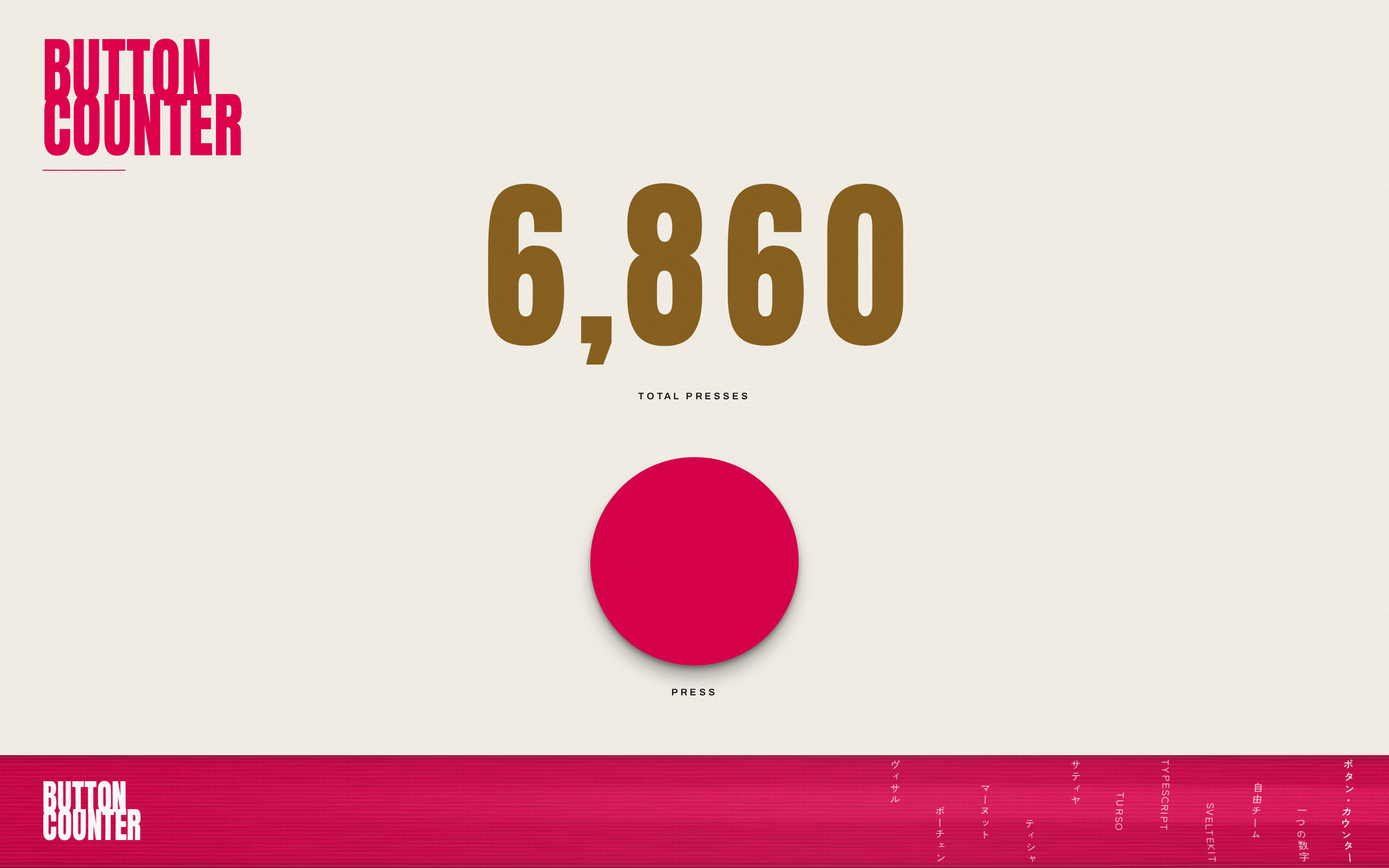
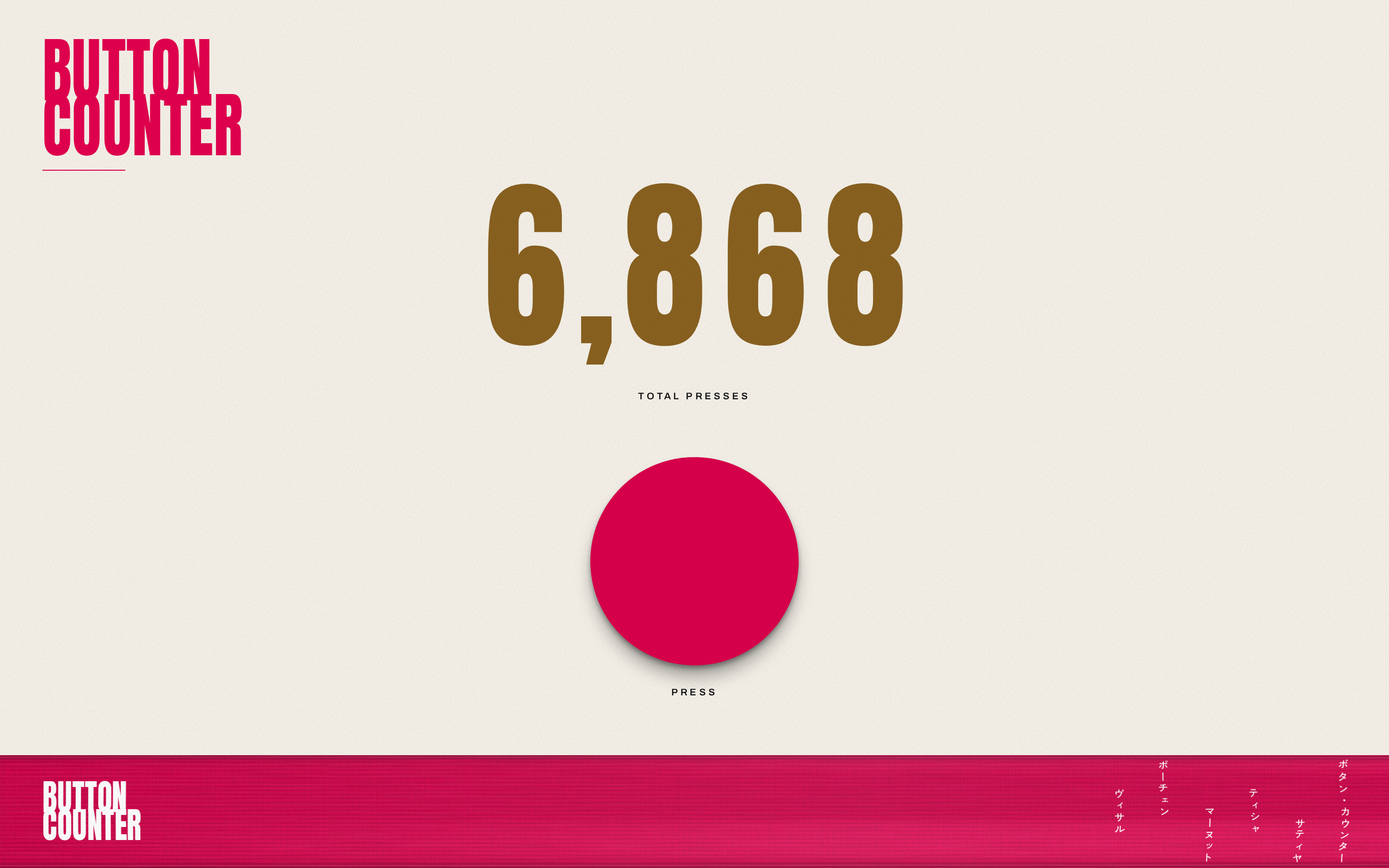
style: trim the band to the wordmark and the team (#39)
The band carries the Japanese wordmark and the five names and nothing
else. The names stay readable to assistive tech and are tagged lang="ja"
so they are announced as Japanese rather than spelled out.

diff --git a/src/lib/components/Counter.svelte b/src/lib/components/Counter.svelte
@@ -535,18 +535,11 @@
 
 				<div class="vcols">
 					<span class="vcol" aria-hidden="true">ボタン・カウンター</span>
-					<span class="vcol vcol--thin" aria-hidden="true">一つの数字</span>
-					<span class="vcol vcol--thin" aria-hidden="true">自由チーム</span>
-					<span class="vcol vcol--thin vcol--en" aria-hidden="true">SVELTEKIT</span>
-					<span class="vcol vcol--thin vcol--en" aria-hidden="true">TYPESCRIPT</span>
-					<span class="vcol vcol--thin vcol--en" aria-hidden="true">TURSO</span>
-					<ul class="vcols__names" lang="ja">
-						<li class="vcol vcol--thin">サティヤ</li>
-						<li class="vcol vcol--thin">ティシャ</li>
-						<li class="vcol vcol--thin">マーヌット</li>
-						<li class="vcol vcol--thin">ポーチェン</li>
-						<li class="vcol vcol--thin">ヴィサル</li>
-					</ul>
+					<span class="vcol" lang="ja">サティヤ</span>
+					<span class="vcol" lang="ja">ティシャ</span>
+					<span class="vcol" lang="ja">マーヌット</span>
+					<span class="vcol" lang="ja">ポーチェン</span>
+					<span class="vcol" lang="ja">ヴィサル</span>
 				</div>
 			</div>
 		</div>
@@ -1047,13 +1040,6 @@
 		transform-origin: left top;
 		margin: 0;
 		flex: none;
-	}
-
-	.vcols__names {
-		display: contents;
-		margin: 0;
-		padding: 0;
-		list-style: none;
 	}
 
 	.vcols {
